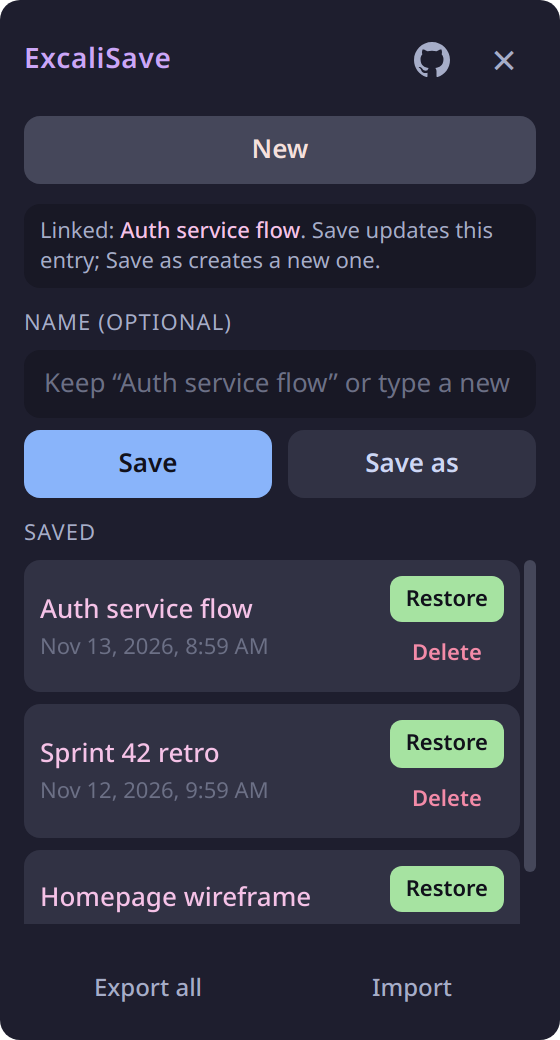
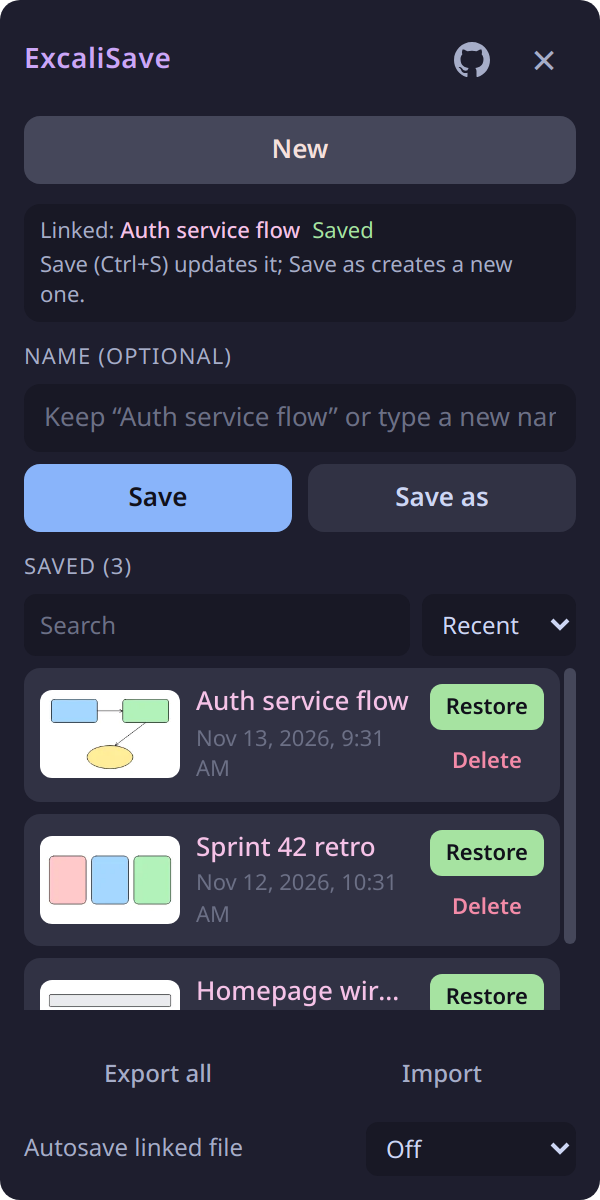
Document v0.2 features and refresh panel screenshot

diff --git a/README.md b/README.md
@@ -18,6 +18,10 @@ There are plenty of drawing tools, but Excalidraw is the one I keep coming back 
 
 - Floating launcher on excalidraw.com that opens a small, draggable panel
 - **New**, **Save** (update the linked file) and **Save as** (create a new one)
+- **Ctrl+S** (Cmd+S on Mac) saves the linked file without opening the panel
+- Unsaved-changes dot on the launcher and a **Saved / Unsaved** marker next to the linked file
+- Optional **autosave** of the linked file every 2, 5 or 10 minutes
+- Thumbnail preview of every save, plus **search** and **sort** (recent, created, name)
 - Restore any save; theme, zoom, background and grid come back with it
 - Pasted images are saved with the snapshot and restored correctly
 - Warns before **New** or **Restore** would throw away unsaved changes
@@ -68,9 +72,19 @@ Excalidraw keeps the current scene in the page's `localStorage` and pasted image
 | `unlimitedStorage` | Drawings with images easily pass Chrome's default 10 MB quota       |
 | `excalidraw.com`   | The panel only runs on excalidraw.com, nowhere else                 |
 
+## Keyboard
+
+| Shortcut         | Action                                                        |
+| ---------------- | ------------------------------------------------------------- |
+| Ctrl+S / Cmd+S   | Save the linked file; with no linked file, opens the panel to name it |
+| Enter            | In the name field: Save if a file is linked, otherwise Save as |
+| Esc              | Close the panel                                               |
+
+ExcaliSave takes over Ctrl+S on excalidraw.com. Excalidraw's own "save to disk" is still in its main menu.
+
 ## Roadmap
 
-- **v0.2:** search and sort, thumbnails, unsaved-changes marker, Ctrl+S to save, optional autosave
+- **Next:** Chrome Web Store listing
 - **Later:** sync through your own Google Drive or a GitHub gist, folders or tags, version history per file, Firefox build
 
 See the [changelog](CHANGELOG.md) for what shipped in each release.

diff --git a/CHANGELOG.md b/CHANGELOG.md
@@ -4,6 +4,23 @@ All notable changes to ExcaliSave are documented here. The format follows [Keep 
 
 ## [Unreleased]
 
+Nicer to use: find saves quickly, see what they are, and stop losing work between saves.
+
+### Added
+
+- Thumbnail preview for every save, rendered from the saved scene (images included); older saves get one the first time the list is shown
+- Search saves by name and sort by recently updated, created or name; the sort choice is remembered
+- Unsaved-changes dot on the launcher and a Saved / Unsaved marker next to the linked file
+- Ctrl+S (Cmd+S on Mac) saves the linked file, with a small confirmation next to the launcher; with no linked file it opens the panel to name the save
+- Optional autosave of the linked file every 2, 5 or 10 minutes, only when it has unsaved changes
+- The linked file is highlighted in the list
+
+### Fixed
+
+- Typing in the panel's text fields also triggered Excalidraw shortcuts: Backspace deleted the selected shapes, letters switched tools and paste went onto the canvas
+- A save made right after an edit could miss the last change because Excalidraw writes the scene on a short delay; ExcaliSave now flushes it first
+- A save restored from an older Excalidraw version could show as changed straight away
+
 ## [0.1.0] - 2026-11-13
 
 Safe to rely on: saves keep their images, survive clearing site data, and never fail silently.
